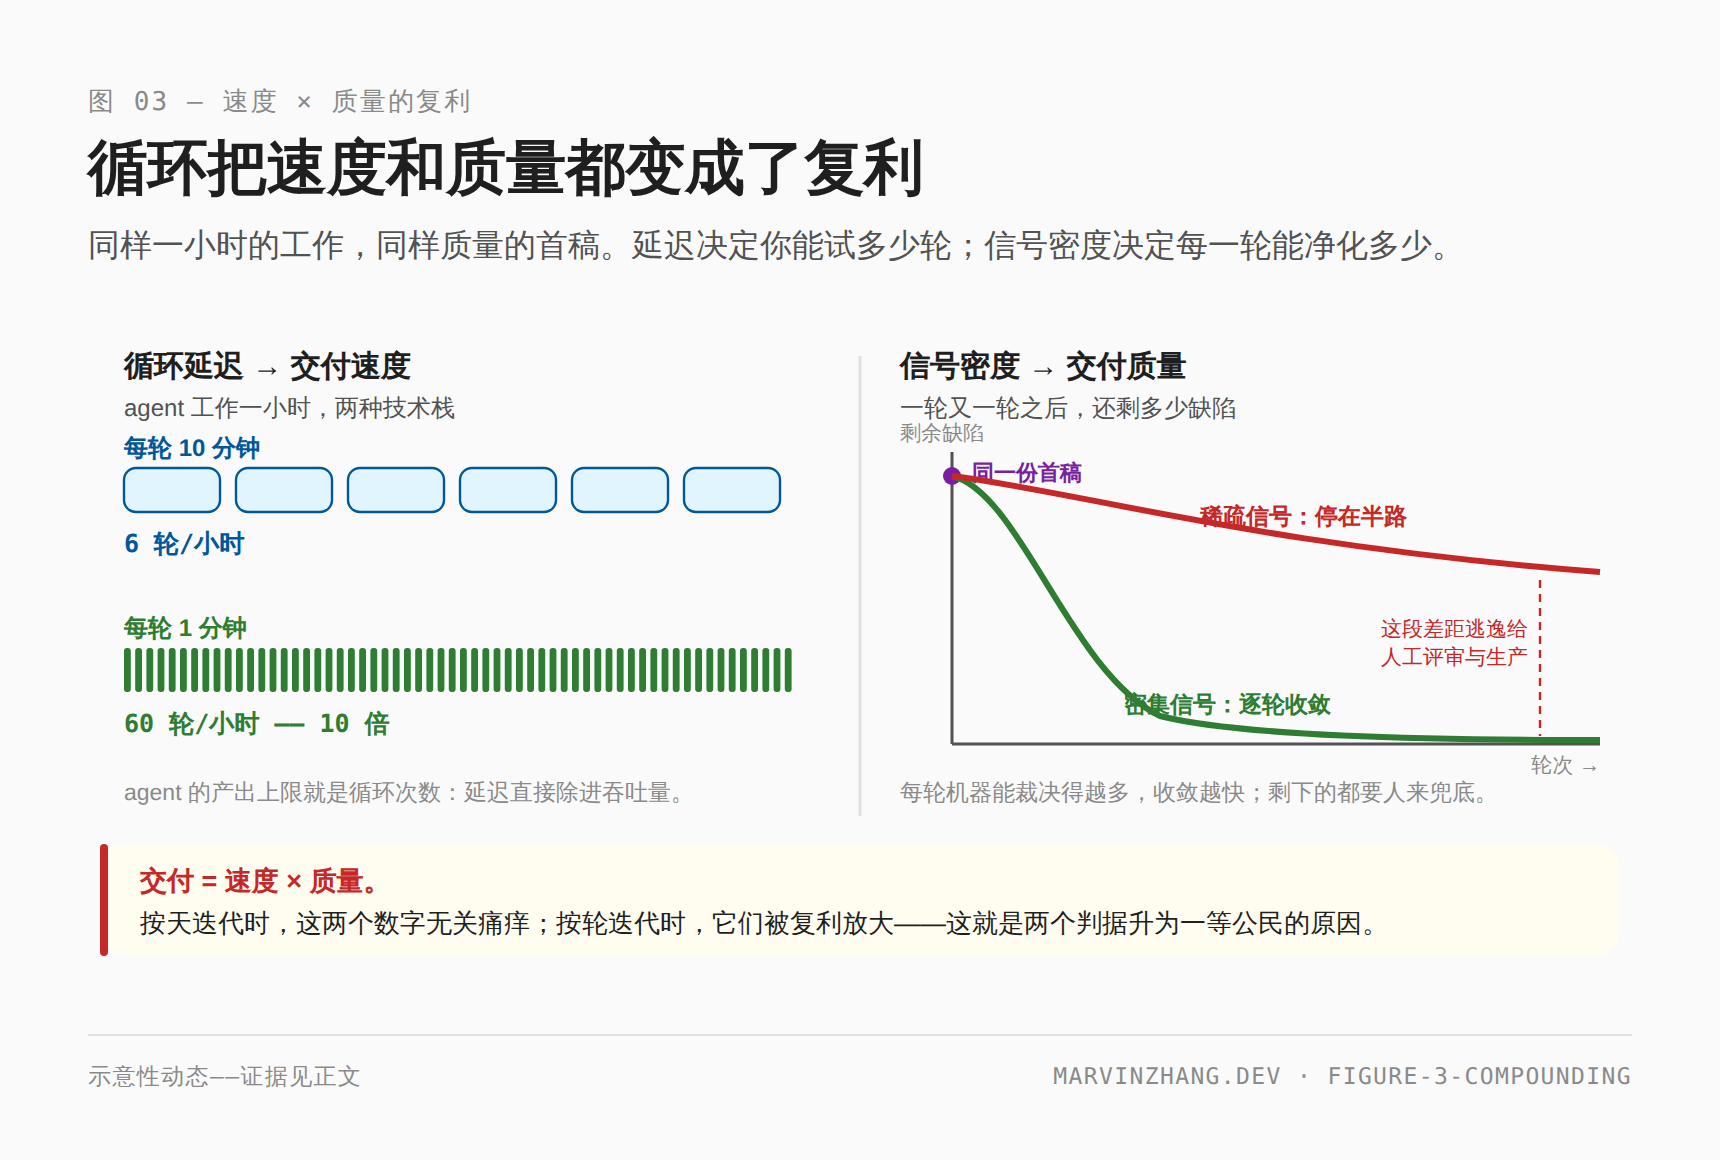
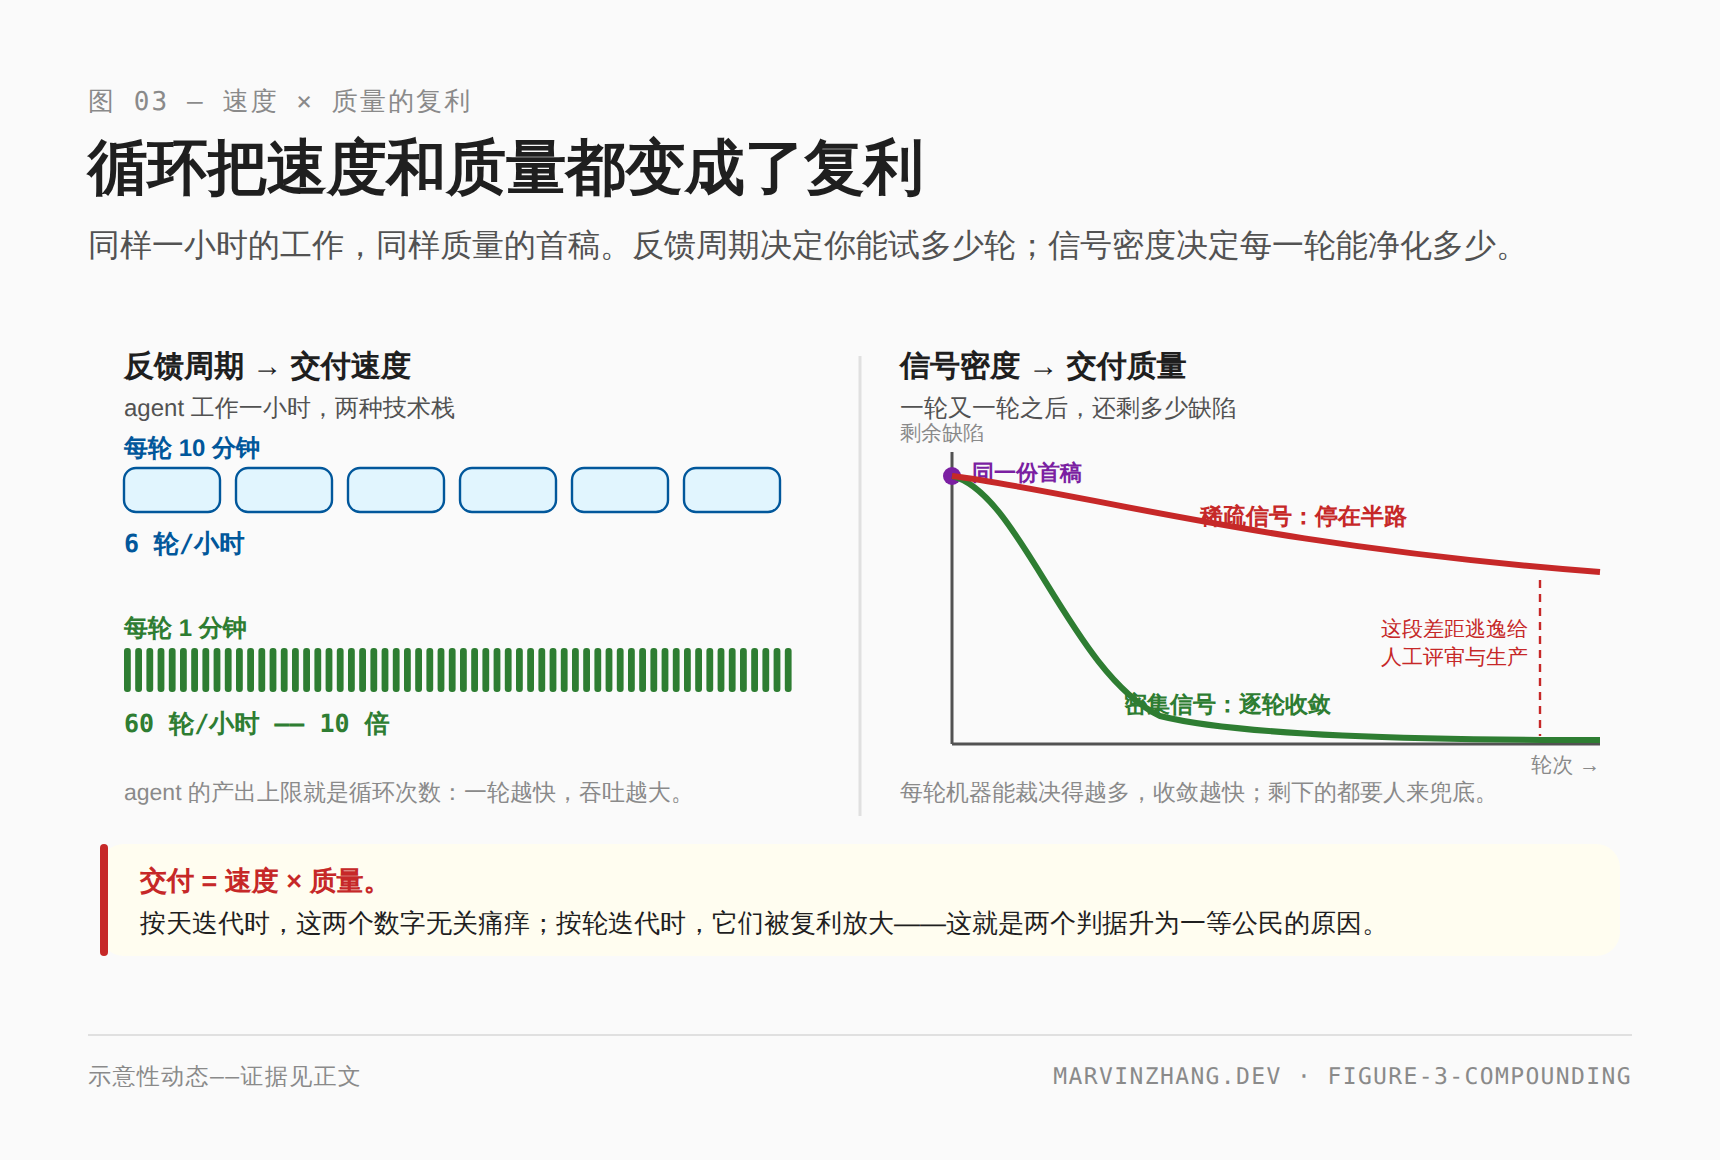
De-calque the two core terms in the Chinese version
- 循环延迟 (calque of loop latency) renamed to 反馈周期 throughout prose and figures 2/3/6 zh; qualifiers moved into the defining sentences
- 可判定验证信号密度 (triple-modifier noun stack) slimmed to 验证信号密度, with machine-decidability carried by the definition; "可判定信号" predicate rephrased as 机器能直接裁决的硬信号
- English terms (loop latency / verification signal density) unchanged

Claude-Session: https://claude.ai/code/session_015AgqLUuUsNDKkaPpExJqon

Changed region(s): [[0.3698, 0.1862, 0.8628, 0.2483], [0.2773, 0.6517, 0.4006, 0.7138], [0.0616, 0.2793, 0.1541, 0.3414]]

diff --git a/drafts/2026-07-06-web-stack-selection-in-the-agent-era/figures/figure-3-compounding.zh.html b/drafts/2026-07-06-web-stack-selection-in-the-agent-era/figures/figure-3-compounding.zh.html
@@ -51,13 +51,13 @@
 <div class="header">
   <div class="figno">图 03 — 速度 × 质量的复利</div>
   <h1>循环把速度和质量都变成了复利</h1>
-  <div class="subtitle">同样一小时的工作，同样质量的首稿。延迟决定你能试多少轮；信号密度决定每一轮能净化多少。</div>
+  <div class="subtitle">同样一小时的工作，同样质量的首稿。反馈周期决定你能试多少轮；信号密度决定每一轮能净化多少。</div>
 </div>
 
 <svg class="cwrap" width="772" height="322" viewBox="0 0 772 322" font-family="Inter, 'Noto Sans SC', sans-serif">
   <!-- ============ Panel A: speed ============ -->
   <g>
-    <text x="18" y="20" font-size="15" font-weight="700" fill="#1f1f1f">循环延迟 → 交付速度</text>
+    <text x="18" y="20" font-size="15" font-weight="700" fill="#1f1f1f">反馈周期 → 交付速度</text>
     <text x="18" y="40" font-size="12" fill="#525252">agent 工作一小时，两种技术栈</text>
 
     <text x="18" y="60" font-size="12" font-weight="600" fill="#01579b">每轮 10 分钟</text>
@@ -68,7 +68,7 @@
     <rect x="18.0" y="156" width="3.4" height="22" rx="1.5" fill="#2e7d32"/><rect x="23.6" y="156" width="3.4" height="22" rx="1.5" fill="#2e7d32"/><rect x="29.2" y="156" width="3.4" height="22" rx="1.5" fill="#2e7d32"/><rect x="34.8" y="156" width="3.4" height="22" rx="1.5" fill="#2e7d32"/><rect x="40.4" y="156" width="3.4" height="22" rx="1.5" fill="#2e7d32"/><rect x="46.0" y="156" width="3.4" height="22" rx="1.5" fill="#2e7d32"/><rect x="51.6" y="156" width="3.4" height="22" rx="1.5" fill="#2e7d32"/><rect x="57.2" y="156" width="3.4" height="22" rx="1.5" fill="#2e7d32"/><rect x="62.8" y="156" width="3.4" height="22" rx="1.5" fill="#2e7d32"/><rect x="68.4" y="156" width="3.4" height="22" rx="1.5" fill="#2e7d32"/><rect x="74.0" y="156" width="3.4" height="22" rx="1.5" fill="#2e7d32"/><rect x="79.6" y="156" width="3.4" height="22" rx="1.5" fill="#2e7d32"/><rect x="85.2" y="156" width="3.4" height="22" rx="1.5" fill="#2e7d32"/><rect x="90.8" y="156" width="3.4" height="22" rx="1.5" fill="#2e7d32"/><rect x="96.4" y="156" width="3.4" height="22" rx="1.5" fill="#2e7d32"/><rect x="102.0" y="156" width="3.4" height="22" rx="1.5" fill="#2e7d32"/><rect x="107.6" y="156" width="3.4" height="22" rx="1.5" fill="#2e7d32"/><rect x="113.2" y="156" width="3.4" height="22" rx="1.5" fill="#2e7d32"/><rect x="118.8" y="156" width="3.4" height="22" rx="1.5" fill="#2e7d32"/><rect x="124.4" y="156" width="3.4" height="22" rx="1.5" fill="#2e7d32"/><rect x="130.0" y="156" width="3.4" height="22" rx="1.5" fill="#2e7d32"/><rect x="135.6" y="156" width="3.4" height="22" rx="1.5" fill="#2e7d32"/><rect x="141.2" y="156" width="3.4" height="22" rx="1.5" fill="#2e7d32"/><rect x="146.8" y="156" width="3.4" height="22" rx="1.5" fill="#2e7d32"/><rect x="152.4" y="156" width="3.4" height="22" rx="1.5" fill="#2e7d32"/><rect x="158.0" y="156" width="3.4" height="22" rx="1.5" fill="#2e7d32"/><rect x="163.6" y="156" width="3.4" height="22" rx="1.5" fill="#2e7d32"/><rect x="169.2" y="156" width="3.4" height="22" rx="1.5" fill="#2e7d32"/><rect x="174.8" y="156" width="3.4" height="22" rx="1.5" fill="#2e7d32"/><rect x="180.4" y="156" width="3.4" height="22" rx="1.5" fill="#2e7d32"/><rect x="186.0" y="156" width="3.4" height="22" rx="1.5" fill="#2e7d32"/><rect x="191.6" y="156" width="3.4" height="22" rx="1.5" fill="#2e7d32"/><rect x="197.2" y="156" width="3.4" height="22" rx="1.5" fill="#2e7d32"/><rect x="202.8" y="156" width="3.4" height="22" rx="1.5" fill="#2e7d32"/><rect x="208.4" y="156" width="3.4" height="22" rx="1.5" fill="#2e7d32"/><rect x="214.0" y="156" width="3.4" height="22" rx="1.5" fill="#2e7d32"/><rect x="219.6" y="156" width="3.4" height="22" rx="1.5" fill="#2e7d32"/><rect x="225.2" y="156" width="3.4" height="22" rx="1.5" fill="#2e7d32"/><rect x="230.8" y="156" width="3.4" height="22" rx="1.5" fill="#2e7d32"/><rect x="236.4" y="156" width="3.4" height="22" rx="1.5" fill="#2e7d32"/><rect x="242.0" y="156" width="3.4" height="22" rx="1.5" fill="#2e7d32"/><rect x="247.6" y="156" width="3.4" height="22" rx="1.5" fill="#2e7d32"/><rect x="253.2" y="156" width="3.4" height="22" rx="1.5" fill="#2e7d32"/><rect x="258.8" y="156" width="3.4" height="22" rx="1.5" fill="#2e7d32"/><rect x="264.4" y="156" width="3.4" height="22" rx="1.5" fill="#2e7d32"/><rect x="270.0" y="156" width="3.4" height="22" rx="1.5" fill="#2e7d32"/><rect x="275.6" y="156" width="3.4" height="22" rx="1.5" fill="#2e7d32"/><rect x="281.2" y="156" width="3.4" height="22" rx="1.5" fill="#2e7d32"/><rect x="286.8" y="156" width="3.4" height="22" rx="1.5" fill="#2e7d32"/><rect x="292.4" y="156" width="3.4" height="22" rx="1.5" fill="#2e7d32"/><rect x="298.0" y="156" width="3.4" height="22" rx="1.5" fill="#2e7d32"/><rect x="303.6" y="156" width="3.4" height="22" rx="1.5" fill="#2e7d32"/><rect x="309.2" y="156" width="3.4" height="22" rx="1.5" fill="#2e7d32"/><rect x="314.8" y="156" width="3.4" height="22" rx="1.5" fill="#2e7d32"/><rect x="320.4" y="156" width="3.4" height="22" rx="1.5" fill="#2e7d32"/><rect x="326.0" y="156" width="3.4" height="22" rx="1.5" fill="#2e7d32"/><rect x="331.6" y="156" width="3.4" height="22" rx="1.5" fill="#2e7d32"/><rect x="337.2" y="156" width="3.4" height="22" rx="1.5" fill="#2e7d32"/><rect x="342.8" y="156" width="3.4" height="22" rx="1.5" fill="#2e7d32"/><rect x="348.4" y="156" width="3.4" height="22" rx="1.5" fill="#2e7d32"/>
     <text x="18" y="198" font-size="12.5" font-weight="700" fill="#2e7d32" font-family="'JetBrains Mono', monospace">60 轮/小时 —— 10 倍</text>
 
-    <text x="18" y="232" font-size="11.5" fill="#8a8a8a">agent 的产出上限就是循环次数：延迟直接除进吞吐量。</text>
+    <text x="18" y="232" font-size="11.5" fill="#8a8a8a">agent 的产出上限就是循环次数：一轮越快，吞吐越大。</text>
   </g>
 
   <line x1="386" y1="10" x2="386" y2="240" stroke="#e0e0e0" stroke-width="1.5"/>

diff --git a/drafts/2026-07-06-web-stack-selection-in-the-agent-era/figures/figure-2-agent-loop.zh.html b/drafts/2026-07-06-web-stack-selection-in-the-agent-era/figures/figure-2-agent-loop.zh.html
@@ -63,7 +63,7 @@
 <div class="header">
   <div class="figno">图 02 — 两个新选型判据</div>
   <h1>agent 跑的循环，以及技术栈控制着什么</h1>
-  <div class="subtitle">一个任务里这个循环要闭合几十到几百次。技术栈决定它的延迟，也决定分叉处有多少正确性是机器可判定的。</div>
+  <div class="subtitle">一个任务里这个循环要闭合几十到几百次。技术栈决定一轮要多久，也决定分叉处有多少对错能由机器直接裁决。</div>
 </div>
 
 <svg class="diagram" width="772" height="368" viewBox="0 0 772 368" font-family="Inter, 'Noto Sans SC', sans-serif">
@@ -118,7 +118,7 @@
   <!-- latency bracket under the edit->signals span -->
   <path d="M 6 336 L 6 344 L 766 344 L 766 336" fill="none" stroke="#e65100" stroke-width="2.5"/>
   <text x="386" y="362" text-anchor="middle" font-size="12.5" font-weight="600" fill="#e65100"
-        font-family="'JetBrains Mono', monospace">循环延迟 = 一次「修改 → 可信反馈」的端到端耗时</text>
+        font-family="'JetBrains Mono', monospace">反馈周期 = 一次「修改 → 可信反馈」的端到端耗时</text>
 </svg>
       <div class="density">
         <div class="cell good"><b>密集信号：</b>一条 <code>tsc</code> 报错零成本、确定性、机器可读——同一缺陷、同一消息、同一行号。LLM 产出代码的编译错误中 94% 是类型检查失败。</div>

diff --git a/drafts/2026-07-06-web-stack-selection-in-the-agent-era/figures/figure-6-quadrant.zh.html b/drafts/2026-07-06-web-stack-selection-in-the-agent-era/figures/figure-6-quadrant.zh.html
@@ -77,7 +77,7 @@
 <div class="canvas">
 <div class="header">
   <div class="figno">图 06 — 人机联合 DX（定性）</div>
-  <h1>循环延迟 × 验证信号密度</h1>
+  <h1>反馈周期 × 验证信号密度</h1>
   <div class="subtitle">各点位置为定性判断而非打分；部分语言正文未展开，仅供参照。可靠性与生态成熟度是两轴之外的入场券。</div>
 </div>
 

diff --git a/drafts/2026-07-06-web-stack-selection-in-the-agent-era/figures/build_figures.py b/drafts/2026-07-06-web-stack-selection-in-the-agent-era/figures/build_figures.py
@@ -263,14 +263,14 @@ F2 = {
   title="图 2 — agent 循环",
   figno="图 02 — 两个新选型判据",
   h1="agent 跑的循环，以及技术栈控制着什么",
-  subtitle="一个任务里这个循环要闭合几十到几百次。技术栈决定它的延迟，也决定分叉处有多少正确性是机器可判定的。",
+  subtitle="一个任务里这个循环要闭合几十到几百次。技术栈决定一轮要多久，也决定分叉处有多少对错能由机器直接裁决。",
   edit_t="agent 修改代码", edit_s="写代码这一步很便宜",
   verify_t="构建 · 类型检查 · 测试", verify_s="安装、编译、启动",
   sig_t="信号", sig_s1="返回了什么？", sig_s2="能不能信？",
   ok_t="agent 自我纠正", ok_s1="确定性、机器可读", ok_s2="tsc 报错、断言失败",
   err_t="人类介入", err_s1="信号微弱或缺失", err_s2="仅运行时暴露",
   loop="自我纠正后回到起点——一个任务里循环成百上千轮", loopw=330, subfs=10.8,
-  lat="循环延迟 = 一次「修改 → 可信反馈」的端到端耗时",
+  lat="反馈周期 = 一次「修改 → 可信反馈」的端到端耗时",
   good="<b>密集信号：</b>一条 <code>tsc</code> 报错零成本、确定性、机器可读——同一缺陷、同一消息、同一行号。LLM 产出代码的编译错误中 94% 是类型检查失败。",
   bad="<b>稀疏信号：</b>生产环境的 <code>TypeError</code> 触达昂贵、复现随机、还需要人来解释。",
   footleft="GitHub Blog 2026（94% 为类型检查失败）· 循环模型：本文",
@@ -528,7 +528,7 @@ F5 = {
  "zh": dict(
   title="图 6 — 两轴选型框架",
   figno="图 06 — 人机联合 DX（定性）",
-  h1="循环延迟 × 验证信号密度",
+  h1="反馈周期 × 验证信号密度",
   subtitle="各点位置为定性判断而非打分；部分语言正文未展开，仅供参照。可靠性与生态成熟度是两轴之外的入场券。",
   quads=("联合 DX 甜区", "可信但迟缓", "agent 困难模式", "快而不可验证"),
   xl=("反馈循环慢", "反馈循环快"),
@@ -682,14 +682,14 @@ F3C = {
   title="图 3 — 为什么恰好是这两个判据",
   figno="图 03 — 速度 × 质量的复利",
   h1="循环把速度和质量都变成了复利",
-  subtitle="同样一小时的工作，同样质量的首稿。延迟决定你能试多少轮；信号密度决定每一轮能净化多少。",
-  pa_title="循环延迟 → 交付速度",
+  subtitle="同样一小时的工作，同样质量的首稿。反馈周期决定你能试多少轮；信号密度决定每一轮能净化多少。",
+  pa_title="反馈周期 → 交付速度",
   pa_sub="agent 工作一小时，两种技术栈",
   slow_lbl="每轮 10 分钟",
   slow_stat="6 轮/小时",
   fast_lbl="每轮 1 分钟",
   fast_stat="60 轮/小时 —— 10 倍",
-  pa_cap="agent 的产出上限就是循环次数：延迟直接除进吞吐量。",
+  pa_cap="agent 的产出上限就是循环次数：一轮越快，吞吐越大。",
   pb_title="信号密度 → 交付质量",
   pb_sub="一轮又一轮之后，还剩多少缺陷",
   pb_cap="每轮机器能裁决得越多，收敛越快；剩下的都要人来兜底。",